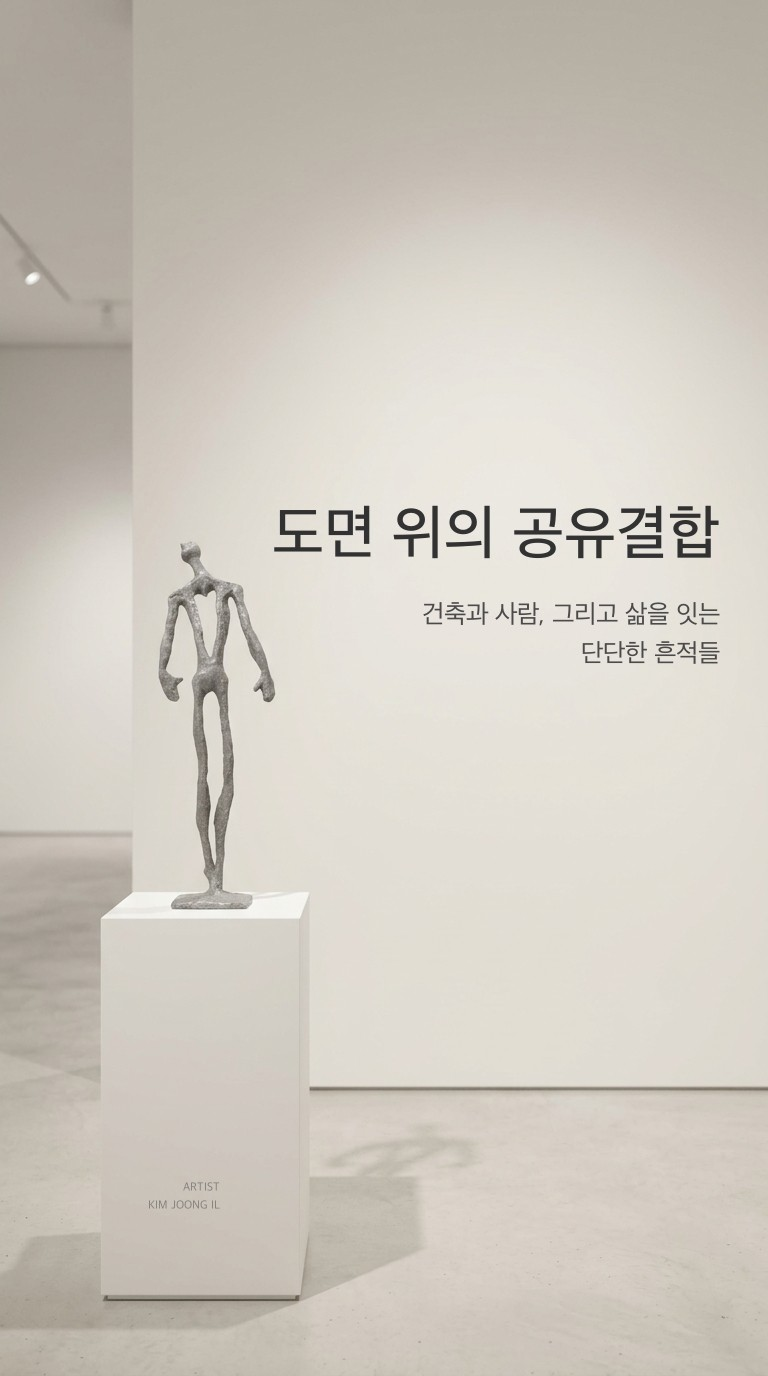
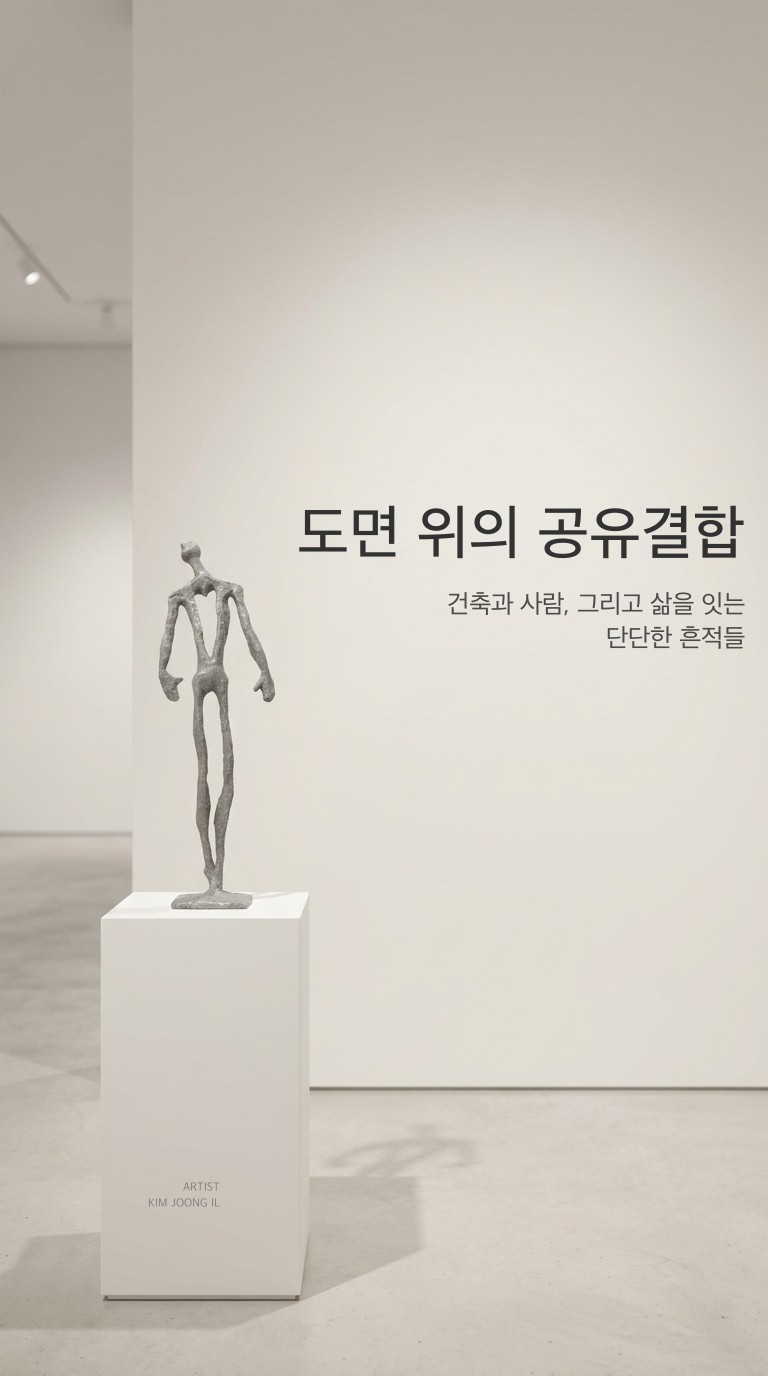
UI Polish: Rebaked both cover and author images (V3). Pushed all text 25px closer to the right edge of the wall to maximize breathing room from the sculpture. Author name is now identical in size to the body text, and line spacing is severely compacted (1.25) to look like a dense, minimalist museum 

Changed region(s): [[0.3438, 0.3438, 0.9688, 0.5]]

diff --git a/index.html b/index.html
@@ -40,7 +40,7 @@
     <link rel="apple-touch-icon" href="static/images/01.jpg" />
     <link rel="icon" type="image/jpeg" href="static/images/01.jpg" />
 
-    <link rel="stylesheet" href="style.css?v=20242391" />
+    <link rel="stylesheet" href="style.css?v=20242392" />
     <link
       href="https://fonts.googleapis.com/css2?family=Nanum+Myeongjo:wght@400;700&display=swap"
       rel="stylesheet"
@@ -612,7 +612,7 @@
     </div>
     <div class="toc-overlay" onclick="closeTOC()"></div>
 
-    <script src="book_data.js?v=20242391"></script>
+    <script src="book_data.js?v=20242392"></script>
     <script>
       
       // --- 마스터 개선 로직 주입 ---
@@ -748,8 +748,8 @@ let currentChapter = 0;
           
 
           let bgImage = page.image;
-          if (page.type === "cover") bgImage = "static/images/gallery_cover_baked.jpg?v=20242391";
-          if (page.type === "author_profile") bgImage = "static/images/gallery_author_baked.jpg?v=20242391";
+          if (page.type === "cover") bgImage = "static/images/gallery_cover_baked.jpg?v=20242392";
+          if (page.type === "author_profile") bgImage = "static/images/gallery_author_baked.jpg?v=20242392";
 
           if (bgImage) {
             let overlayCSS = "background: rgba(255,255,255, 0.75);";
